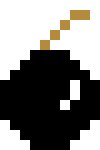
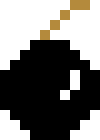
feat: bomb, person 이미지 변경, 크기 변경 및 애니메이션 추가, 판정 완화

diff --git a/bomb_game/bomb_game.py b/bomb_game/bomb_game.py
@@ -18,6 +18,67 @@ bgm_2 = 'bomb_game/sound/BGM2.wav'
 # 배경 음악 소리 조절
 pygame.mixer.music.set_volume(0.3)
 
+# 캐릭터 애니메이션 이미지 로드
+person_idle_image = pygame.image.load('bomb_game/img/person_idle.png').convert_alpha()  # 알파 채널 활성화
+person_left_images = [
+    pygame.image.load('bomb_game/img/person_left1.png').convert_alpha(),
+    pygame.image.load('bomb_game/img/person_left2.png').convert_alpha()
+]
+person_right_images = [
+    pygame.image.load('bomb_game/img/person_right1.png').convert_alpha(),
+    pygame.image.load('bomb_game/img/person_right2.png').convert_alpha()
+]
+
+# 폭탄 이미지 로드
+bomb_image = pygame.image.load('bomb_game/img/bomb.png').convert_alpha()  # 알파 채널 활성화
+
+# 캐릭터 마스크 생성 함수
+def create_mask(image):
+    surface = pygame.Surface(image.get_size(), pygame.SRCALPHA)
+    surface.fill((0, 0, 0, 0))  # 투명한 배경 설정
+    surface.blit(image, (0, 0))
+    return pygame.mask.from_surface(surface)
+
+# 캐릭터 마스크 생성 (맞춤형 히트박스)
+person_idle_mask = create_mask(person_idle_image)
+person_left_masks = [create_mask(img) for img in person_left_images]
+person_right_masks = [create_mask(img) for img in person_right_images]
+
+# 폭탄 마스크 생성 함수
+def create_bomb_mask(bomb_image):
+    surface = pygame.Surface(bomb_image.get_size(), pygame.SRCALPHA)
+    surface.fill((0, 0, 0, 0))  # 투명한 배경 설정
+    # 폭탄의 충돌 영역을 설정 (예: 폭탄 중앙 부분만 충돌)
+    surface.blit(bomb_image, (0, 0))
+    return pygame.mask.from_surface(surface)
+
+# 폭탄 마스크 생성
+bomb_mask = create_bomb_mask(bomb_image)
+
+# 충돌 검사 함수
+def check_collision(person_mask, bomb_mask, offset):
+    return person_mask.overlap(bomb_mask, offset)
+
+
+# 모든 이미지 크기 조정
+person_idle_image = pygame.transform.scale(person_idle_image, (100, 100))
+person_left_images = [pygame.transform.scale(img, (100, 100)) for img in person_left_images]
+person_right_images = [pygame.transform.scale(img, (100, 100)) for img in person_right_images]
+
+# 캐릭터 마스크 생성
+person_idle_mask = pygame.mask.from_surface(person_idle_image)
+person_left_masks = [pygame.mask.from_surface(img) for img in person_left_images]
+person_right_masks = [pygame.mask.from_surface(img) for img in person_right_images]
+
+# 폭탄 마스크 생성
+bomb_mask = pygame.mask.from_surface(bomb_image)
+
+# 애니메이션 관련 변수
+animation_index = 0  # 현재 애니메이션 프레임 인덱스
+animation_speed = 0.2  # 애니메이션 속도 (작을수록 빠름)
+animation_timer = 0  # 프레임 전환을 위한 시간 누적
+person_image = person_idle_image  # 초기 이미지는 가만히 있는 상태
+
 # 타이머에 사용할 폰트 설정
 game_font = pygame.font.Font(None, 200)
 
@@ -57,8 +118,7 @@ def button(msg,x,y,w,h,action=None,fcolor=WHITE): # START버튼 상세
 # 게임 실행 함수 정의
 def runGame(): 
 
-    global done, game_over, lives, start_ticks, elapsed_time
-    
+    global done, game_over, lives, start_ticks, elapsed_time, animation_index, animation_timer
     pygame.mixer.music.load(bgm_1)  # 첫 번째 음악을 로드
     pygame.mixer.music.queue(bgm_2) # 두 번째 음악을 대기열에 추가
     pygame.mixer.music.play()  # 첫 번째 음악 재생
@@ -66,7 +126,7 @@ def runGame():
     reset()
 
     bomb_image = pygame.image.load('bomb_game/img/bomb.png')  # 폭탄 이미지 파일을 불러옴
-    bomb_image = pygame.transform.scale(bomb_image, (50, 75))  # 폭탄 이미지 크기를 50x50으로 조절
+    bomb_image = pygame.transform.scale(bomb_image, (70, 120))  # 폭탄 이미지 크기를 50x75으로 조절
     bombs = []  # 폭탄 정보를 담을 리스트 초기화
 
     # 초기 폭탄 5개 생성
@@ -78,12 +138,13 @@ def runGame():
         bombs.append({'rect': rect, 'dy': dy})  # 폭탄 정보를 리스트에 추가
 
     # 캐릭터 이미지 불러오기 및 초기 위치 설정
-    person_image = pygame.image.load('bomb_game/img/person.png')
+    person_image = pygame.image.load('bomb_game/img/person_idle.png')
     person_image = pygame.transform.scale(person_image, (100, 100))
     person = pygame.Rect(person_image.get_rect())
     person.left = size[0] // 2 - person.width // 2  # 캐릭터를 화면 중앙에 배치
     person.top = size[1] - person.height  # 캐릭터를 화면 하단에 배치
     person_dx = 0  # 캐릭터의 초기 이동 속도 설정
+    moving = False
 
     font = pygame.font.SysFont(None, 75)  # 게임오버 텍스트를 위한 폰트 설정
     life_font = pygame.font.SysFont(None, 50)  # 목숨 표시를 위한 폰트 설정
@@ -102,11 +163,14 @@ def runGame():
             elif event.type == pygame.KEYDOWN and not game_over:
                 if event.key == pygame.K_LEFT:
                     person_dx = -5  # 왼쪽 키를 누르면 왼쪽으로 이동
+                    moving = True
                 elif event.key == pygame.K_RIGHT:
                     person_dx = 5  # 오른쪽 키를 누르면 오른쪽으로 이동
+                    moving = True
             elif event.type == pygame.KEYUP:
                 if event.key == pygame.K_LEFT or event.key == pygame.K_RIGHT:
                     person_dx = 0  # 키를 떼면 이동 정지
+                    moving = False
 
         # 게임 오버가 아닐 때 게임 로직 실행
         if not game_over:
@@ -133,23 +197,47 @@ def runGame():
                 person.left = 0
             elif person.left > size[0] - person.width:  # 화면 오른쪽을 넘어가지 않도록
                 person.left = size[0] - person.width
+                
+            if moving:
+                animation_timer += animation_speed
+                if animation_timer >= 1:
+                    animation_timer = 0
+                    animation_index = (animation_index + 1) % len(person_left_images)
+                if person_dx < 0:  # 왼쪽으로 이동 중
+                    person_image = person_left_images[animation_index]
+                elif person_dx > 0:  # 오른쪽으로 이동 중
+                    person_image = person_right_images[animation_index]
+            else:
+                person_image = person_idle_image  # 이동하지 않을 때는 기본 이미지
 
             screen.blit(person_image, person)  # 캐릭터를 화면에 그림
 
-            # 폭탄 충돌 검사 및 목숨 감소
-            for bomb in bombs:
-                if bomb['rect'].colliderect(person):  # 캐릭터와 충돌 시
-                    bombs.remove(bomb)
-                    rect = pygame.Rect(bomb_image.get_rect())
-                    rect.left = random.randint(0, size[0])  # 새 폭탄의 x 좌표 설정
-                    rect.top = -100  # 새 폭탄의 y 좌표 초기화
-                    dy = random.randint(3, 9)  # 낙하 속도 설정
-                    bombs.append({'rect': rect, 'dy': dy})  # 새 폭탄 추가
-                    lives -= 1  # 목숨 감소
-                    if lives <= 0:
-                        game_over = True  # 목숨이 0이면 게임 오버
-                        game_over_time = (pygame.time.get_ticks() - start_ticks) / 1000 # 게임 오버 시 경과 시간 저장
-                screen.blit(bomb_image, bomb['rect'])
+        # 폭탄 충돌 검사 및 목숨 감소
+        for bomb in bombs[:]:
+            offset = (bomb['rect'].left - person.left, bomb['rect'].top - person.top)
+            if person_dx == 0:
+                collision = check_collision(person_idle_mask, bomb_mask, offset)
+            elif person_dx < 0:
+                collision = check_collision(person_left_masks[animation_index], bomb_mask, offset)
+            else:
+                collision = check_collision(person_right_masks[animation_index], bomb_mask, offset)
+
+            if collision:
+                bombs.remove(bomb)
+                rect = pygame.Rect(bomb_image.get_rect())
+                rect.left = random.randint(0, size[0])
+                rect.top = -100
+                dy = random.randint(3 + elapsed_time // 2000, 9 + elapsed_time // 2000)
+                bombs.append({'rect': rect, 'dy': dy})
+                lives -= 1
+
+                if lives <= 0:
+                    game_over = True
+                    game_over_time = (pygame.time.get_ticks() - start_ticks) / 1000
+                    bombs.clear()   # 게임 오버 시 모든 폭탄 제거
+
+            # 폭탄 그리기
+            screen.blit(bomb_image, bomb['rect'])
 
             # 목숨 개수 표시
             lives_text = life_font.render(f"Lives: {lives}", True, WHITE)
